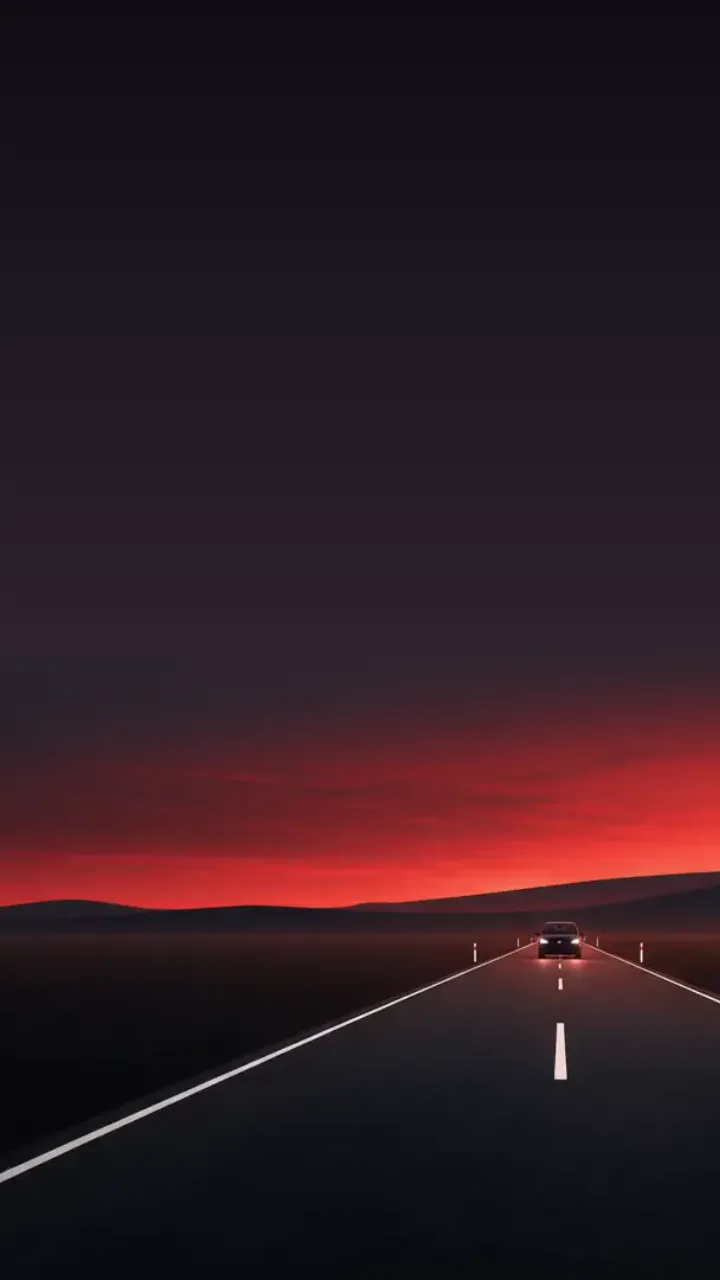
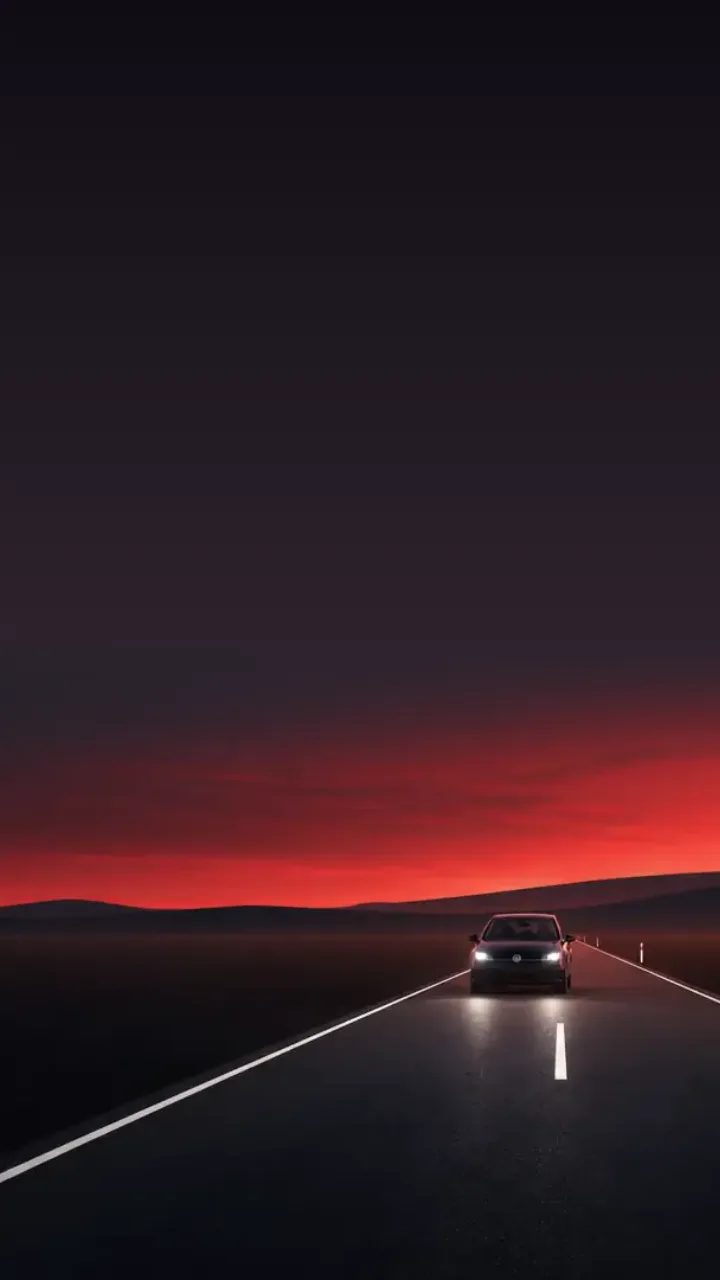
Hero animacija počinje kad je auto već bliže
- Kadrovi se prikazuju od 25 % videa (data-start na canvasu); raniji se ne učitavaju
- Promjene teksta, prelazak teksta desno i pomak kadra ranije, da prate auto
- Nove početne slike (desktop i telefon) s kadrom od kojeg animacija počinje
- README: opis podešavanja početka

Claude-Session: https://claude.ai/code/session_01T6CWDNYRbF9gRFBzkZ3q7S

Changed region(s): [[0.5806, 0.6875, 0.825, 0.875]]

diff --git a/src/lib/hero.js b/src/lib/hero.js
@@ -11,14 +11,16 @@ const clamp = (v, min = 0, max = 1) => Math.min(max, Math.max(min, v));
 const lerp = (a, b, t) => a + (b - a) * t;
 const smooth = (t) => t * t * (3 - 2 * t);
 
+/* Animacija počinje od 25 % videa (data-start na canvasu), kad je auto već bliže;
+   zato auto ranije skreće ulijevo, pa su i promjene teksta pomjerene ranije */
 const STAGES = [
-  [0, 0.27],
-  [0.35, 0.6],
+  [0, 0.22],
+  [0.3, 0.6],
   [0.68, 1.01],
 ];
 const FADE = 0.07;
-/* Auto u videu od oko 3. sekunde prilazi i skreće ulijevo: tekst i zatamnjenje prelaze desno u ovom rasponu skrola */
-const SIDE_SWITCH = [0.25, 0.34];
+/* Kad auto skrene ulijevo, tekst i zatamnjenje prelaze desno u ovom rasponu skrola */
+const SIDE_SWITCH = [0.2, 0.29];
 
 export function initHero(hero) {
   if (!hero) return;
@@ -101,6 +103,9 @@ export function createFramePlayer(canvas, { preloadAll = true } = {}) {
   const count = Number(small ? canvas.dataset.framesMobile : canvas.dataset.frames);
   const base = small ? canvas.dataset.pathMobile : canvas.dataset.path;
   const firstSrc = small ? null : canvas.dataset.poster;
+  // Animacija počinje od ovog dijela videa (0–1), kad je auto već bliže; raniji kadrovi se ne učitavaju
+  const startAt = clamp(Number(canvas.dataset.start) || 0);
+  const first = Math.round(startAt * (count - 1));
   const frames = new Array(count).fill(null);
   const topColors = new Array(count).fill(null);
   const sampler = document.createElement('canvas').getContext('2d', { willReadFrequently: true });
@@ -122,13 +127,13 @@ export function createFramePlayer(canvas, { preloadAll = true } = {}) {
     lastKey = '';
   }
 
-  const src = (i) => (i === 0 && firstSrc) || `${base}${String(i + 1).padStart(3, '0')}.webp`;
+  const src = (i) => (i === first && firstSrc) || `${base}${String(i + 1).padStart(3, '0')}.webp`;
 
   function load(i) {
     return new Promise((resolve) => {
       const img = new Image();
       img.decoding = 'async';
-      img.fetchPriority = i === 0 ? 'high' : 'low';
+      img.fetchPriority = i === first ? 'high' : 'low';
       img.onload = () => {
         frames[i] = img;
         lastKey = '';
@@ -147,11 +152,11 @@ export function createFramePlayer(canvas, { preloadAll = true } = {}) {
   function loadAll() {
     const saveData = navigator.connection?.saveData;
     const order = [];
-    const seen = new Set([0]);
+    const seen = new Set([first]);
     const push = (i) => { if (!seen.has(i)) { seen.add(i); order.push(i); } };
     push(count - 1);
     for (const stride of saveData ? [32, 16, 8, 4] : [32, 16, 8, 4, 2, 1]) {
-      for (let i = 0; i < count; i += stride) push(i);
+      for (let i = first; i < count; i += stride) push(i);
     }
     let next = 0;
     let active = 0;
@@ -164,7 +169,7 @@ export function createFramePlayer(canvas, { preloadAll = true } = {}) {
     pump();
   }
 
-  load(0).then(() => {
+  load(first).then(() => {
     if (!preloadAll) return;
     // Ostali kadrovi nakon što se stranica učita, da ne usporavaju prvi prikaz
     if (document.readyState === 'complete') setTimeout(loadAll, 200);
@@ -193,7 +198,7 @@ export function createFramePlayer(canvas, { preloadAll = true } = {}) {
   function draw(p) {
     if (!W || !H) resize();
     if (!count) return;
-    const pos = clamp(p) * (count - 1);
+    const pos = (startAt + clamp(p) * (1 - startAt)) * (count - 1);
     const i0 = Math.floor(pos);
     const a = nearest(i0);
     if (a === -1) return;
@@ -218,14 +223,14 @@ export function createFramePlayer(canvas, { preloadAll = true } = {}) {
       dh = ih * scale;
       // Kad auto skrene lijevo, kadar se pomjeri udesno (koliko dozvoljava rezanje slike),
       // da auto ostane lijevo, a desno bude mjesta za tekst i na ekranima užim od 16:9
-      const pan = lerp(0.5, 1, smooth(clamp((p - 0.28) / 0.22)));
+      const pan = lerp(0.5, 1, smooth(clamp((p - 0.2) / 0.22)));
       dx = -(dw - W) * pan;
       dy = (H - dh) / 2;
     } else {
       dh = Math.max(H * 0.5, W * (ih / iw));
       dw = dh * (iw / ih);
       dy = H - dh;
-      const focus = lerp(0.5, 0.33, smooth(clamp((p - 0.38) / 0.24)));
+      const focus = lerp(0.5, 0.33, smooth(clamp((p - 0.3) / 0.24)));
       dx = clamp(W / 2 - focus * dw, W - dw, 0);
       const [r, g, bl] = topColor(a);
       const sky = ctx.createLinearGradient(0, 0, 0, dy + 2);

diff --git a/index.html b/index.html
@@ -33,7 +33,7 @@
         </picture>
         <!-- Kadrovi videa za premotavanje skrolom (scripts/prepare_hero_frames.py) -->
         <canvas class="hero-canvas" aria-hidden="true"
-          data-frames="240" data-path="/hero-frames/d/" data-poster="/img/hero-poster.webp"
+          data-frames="240" data-path="/hero-frames/d/" data-poster="/img/hero-poster.webp" data-start="0.25"
           data-frames-mobile="120" data-path-mobile="/hero-frames/m/"></canvas>
       </div>
       <div class="hero-shade" aria-hidden="true"></div>

diff --git a/README.md b/README.md
@@ -105,6 +105,7 @@ Hero prikazuje video vožnje (auto autoškole) koji se premotava skrolom. Video 
 - `public/hero-frames/d/` – svih 240 kadrova, 1280 px (desktop, oko 5,1 MB)
 - `public/hero-frames/m/` – 120 kadrova, 960 px (telefon, oko 1,6 MB)
 - Kadrovi se učitavaju postepeno (prvo svaki 32., pa sve gušće) nakon što se stranica učita.
+- Animacija počinje od 25 % videa (`data-start="0.25"` na `<canvas class="hero-canvas">`), kad je auto već bliže; raniji kadrovi se ne učitavaju. Početne slike (`public/img/hero-poster.webp` i `hero-poster-mobile.webp`) su kadar s tog mjesta. Ako mijenjate početak, uskladite i vremena u `src/lib/hero.js` (`STAGES`, `SIDE_SWITCH`).
 - Na desktopu tekst prelazi desno kad auto skrene lijevo (`data-side="right"` na `.hero-stage`), a kadar se blago pomjeri da auto ostane lijevo.
 - Na uspravnom ekranu (telefon) video je traka na dnu, a iznad nje nebo u boji vrha kadra, iza teksta.
 
